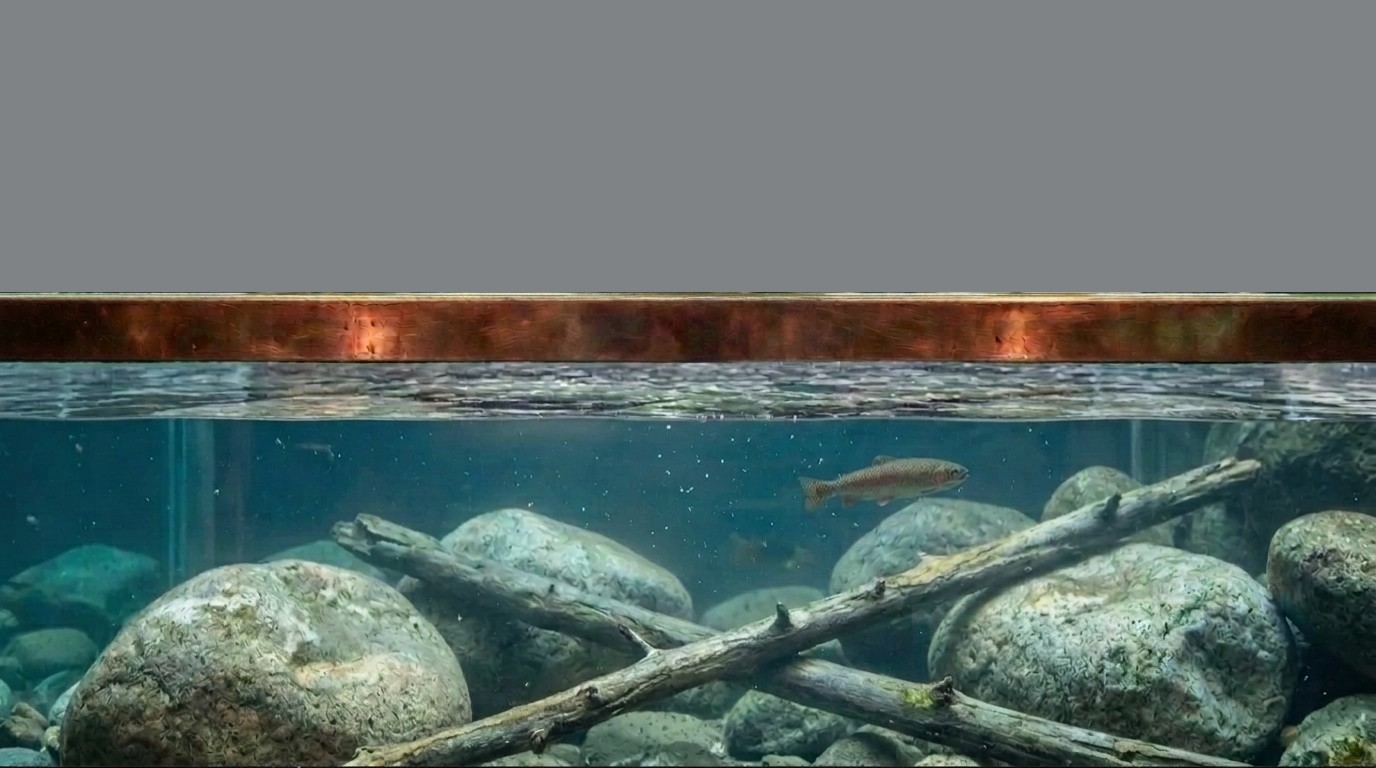
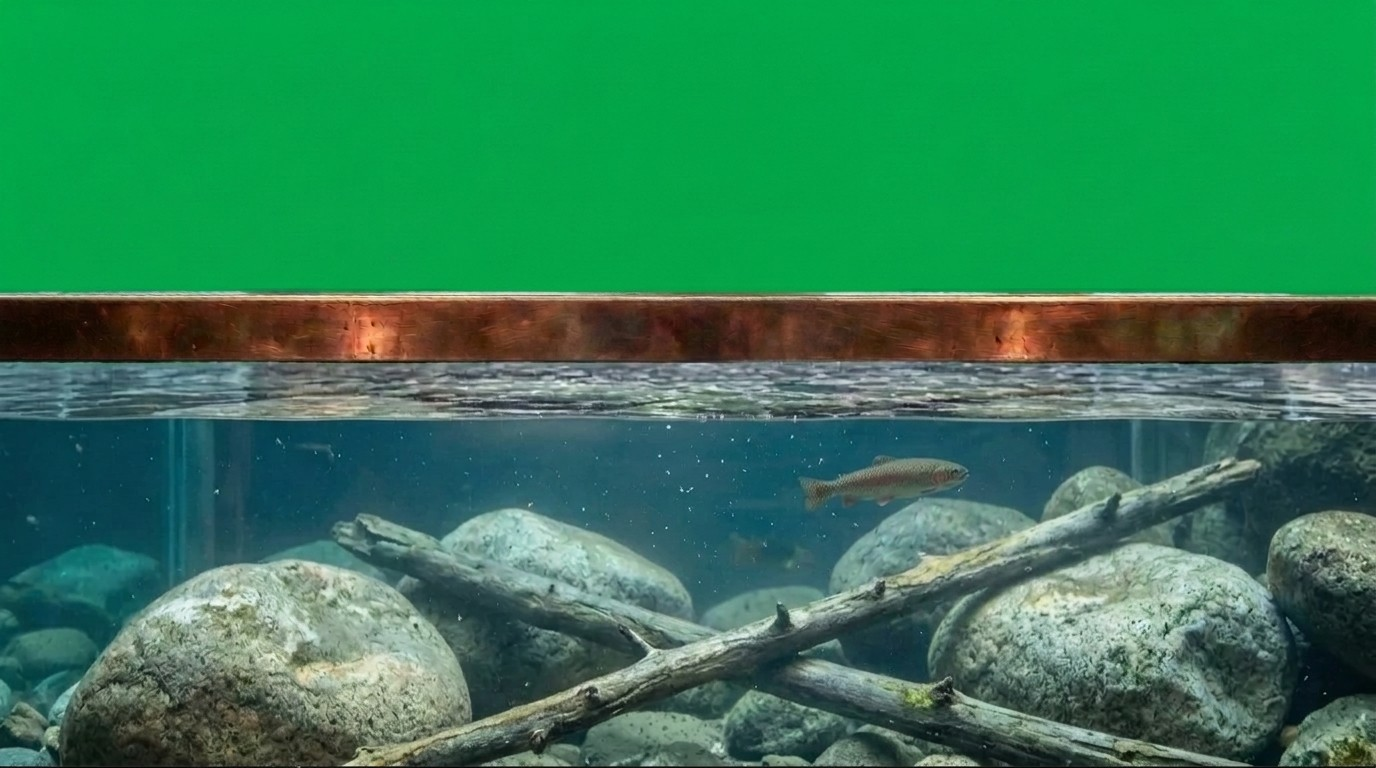
A.L.T.A.'s tank template: Christian's green one
Christian, Oct 14: his empty tank with a flat chroma green wall as the base for her new scenes. It lines up
with her frame (ledge and tank match).

- assets/alta/kit/tank-template.jpg is his; linked as ?v=3. The prompt asks to replace the flat green wall.
- Bring in a scene also turns away a render with the template's green still showing above the ledge.

Claude-Session: https://claude.ai/code/session_01A6Riaik2o3R51Wm73uZWWr

diff --git a/studio/assets/studio.js b/studio/assets/studio.js
@@ -628,8 +628,8 @@
         field('The place', '<textarea id="ntScene" rows="2" placeholder="e.g. ' + esc(TANK_SCENES['lake-tahoe']) + '"></textarea>', 'Picking a category fills in a suggestion') +
         field('How you\'ll make it', '<select id="ntWay"><option value="edit">Edit her template (keeps the framing)</option><option value="new">A new picture from the prompt</option></select>') +
         field('Image prompt', '<textarea id="ntPrompt" rows="6" readonly></textarea>') + '<div class="row"><button type="button" id="ntCopy">Copy the image prompt</button></div>' +
-        '<div class="ga-tpl"><img alt="Her tank template" src="/assets/alta/kit/tank-template.jpg?v=2"><span><b>Her tank template</b><br><span class="muted">16:9, 1376 x 768. Her empty tank: the grey is the place; the ledge and everything below it stay.</span><br>' +
-          '<button type="button" id="ntTplCopy">Copy the image</button> <a href="/assets/alta/kit/tank-template.jpg?v=2" download>Download</a> · <a href="/assets/alta/kit/tank-backdrop-guide.jpg" target="_blank" rel="noopener">Layout guide</a></span></div>' +
+        '<div class="ga-tpl"><img alt="Her tank template" src="/assets/alta/kit/tank-template.jpg?v=3"><span><b>Her tank template</b><br><span class="muted">16:9, 1376 x 768. Her empty tank: the green is the place; the ledge and everything below it stay.</span><br>' +
+          '<button type="button" id="ntTplCopy">Copy the image</button> <a href="/assets/alta/kit/tank-template.jpg?v=3" download>Download</a> · <a href="/assets/alta/kit/tank-backdrop-guide.jpg" target="_blank" rel="noopener">Layout guide</a></span></div>' +
         '<label class="drop ga-drop" id="ntDrop"><input type="file" id="ntFile" accept="image/png,image/jpeg,image/webp" hidden><b>Bring the render here</b> <span class="muted">or drop it here: you\'ll see her in front of it</span></label><div id="ntOut"></div>' +
         '<div class="row"><button type="button" class="primary" id="ntAdd" disabled>Add the scene</button></div>';
       [['data-cbc', CATBCP, bch], ['data-ctc', CATTCP, tch]].forEach(function (k) {
@@ -720,7 +720,7 @@
       $('#ntCat').onchange = function () { var c = this.value, sc = TANK_SCENES[c] || SCENES[c]; if (!ntScene.value.trim() && sc) ntScene.value = sc; if (!$('#ntName').value.trim() && c) $('#ntName').value = c + '-tank'; ntUpd(); };
       ntScene.oninput = ntUpd; $('#ntWay').onchange = ntUpd; ntUpd();
       $('#ntCopy').onclick = function () { navigator.clipboard.writeText(ntPrompt.value).then(function () { toast('Image prompt copied.'); }); };
-      $('#ntTplCopy').onclick = function () { GALook.copyImage('/assets/alta/kit/tank-template.jpg?v=2').then(function () { toast('Her tank template is on the clipboard.'); }, function (e) { toast(e.message, true); }); };
+      $('#ntTplCopy').onclick = function () { GALook.copyImage('/assets/alta/kit/tank-template.jpg?v=3').then(function () { toast('Her tank template is on the clipboard.'); }, function (e) { toast(e.message, true); }); };
       var takeTank = function (f) {
         if (!f) return; $('#ntOut').innerHTML = '<p class="muted">Working…</p>';
         tankImage(f).then(function (res) { CATNEWTANK = res; $('#ntAdd').disabled = !tankShow($('#ntOut'), res); })
@@ -876,12 +876,12 @@
             '<label class="drop" id="mlCyD"><input type="file" id="mlCy" accept="image/png,image/jpeg,image/webp" hidden><b>The cyan one</b> <span class="muted">hat and charm painted cyan</span></label></div>' +
           '<div id="mlOut"></div><div class="row"><button type="button" class="primary" id="mlSave" disabled>Add it to her looks</button></div>' +
           '</div>' +
-          // A.L.T.A.: a scene behind her tank (her template with the place grey; only the strip above her ledge shows)
+          // A.L.T.A.: a scene behind her tank (her template with the place green; only the strip above her ledge shows)
           '<div class="ct" data-ct="alta" hidden>' + prof('alta') +
             '<div class="row"><label class="f"><span>Which scene</span><select id="alWhich"><option value="">A new scene</option>' + (J.tankBackdrops || []).map(function (b) { return '<option value="' + esc(b.name) + '">' + esc(b.name.replace(/-/g, ' ')) + ' (replace hers)</option>'; }).join('') + '</select></label></div>' +
             '<div class="grid2">' + field('Name', '<input id="alName" placeholder="e.g. boathouse-night" maxlength="40">', 'Lowercase, with dashes') + field('Give it to', '<select id="alCat"><option value="">No category yet</option>' + Object.keys(cats).sort().map(function (c) { return '<option value="' + esc(c) + '">' + esc(catName(c)) + '</option>'; }).join('') + '</select>') + '</div>' +
             field('The place', '<textarea id="alScene" rows="2" placeholder="e.g. ' + esc(TANK_SCENES['lake-tahoe']) + '"></textarea>', 'Picking a category fills in a suggestion') +
-            '<div class="row"><select id="alWay"><option value="edit">Edit her template (keeps the framing)</option><option value="new">A new picture from the prompt</option></select><button type="button" id="alPr">Copy the prompt</button><button type="button" id="alTpl">Copy her tank template</button><a href="/assets/alta/kit/tank-template.jpg?v=2" download>Download it</a></div>' +
+            '<div class="row"><select id="alWay"><option value="edit">Edit her template (keeps the framing)</option><option value="new">A new picture from the prompt</option></select><button type="button" id="alPr">Copy the prompt</button><button type="button" id="alTpl">Copy her tank template</button><a href="/assets/alta/kit/tank-template.jpg?v=3" download>Download it</a></div>' +
             '<label class="drop ga-drop" id="alDrop"><input type="file" id="alFile" accept="image/png,image/jpeg,image/webp" hidden><b>Bring the render here</b> <span class="muted">or drop it here: you\'ll see her in front of it</span></label><div id="alOut"></div>' +
             '<div class="row"><button type="button" class="primary" id="alSave" disabled>Add the scene</button></div></div>';
       // what the target gives each character
@@ -1026,7 +1026,7 @@
       $('#alWhich').onchange = function () { var b2 = (J.tankBackdrops || []).filter(function (x) { return x.name === this.value; }, this)[0]; if (b2) { $('#alName').value = b2.name; alScene.value = b2.scene || ''; } else { $('#alName').value = ''; } };
       $('#alCat').onchange = function () { var c = this.value, sc = TANK_SCENES[c] || SCENES[c]; if (!alScene.value.trim() && sc) alScene.value = sc; if (!$('#alName').value.trim() && c) $('#alName').value = c + '-tank'; };
       $('#alPr').onclick = function () { navigator.clipboard.writeText(alPrompt()).then(function () { toast('Her prompt is copied.'); }); };
-      $('#alTpl').onclick = function () { GALook.copyImage('/assets/alta/kit/tank-template.jpg?v=2').then(function () { toast('Her tank template is on the clipboard.'); }, function (e) { toast(e.message, true); }); };
+      $('#alTpl').onclick = function () { GALook.copyImage('/assets/alta/kit/tank-template.jpg?v=3').then(function () { toast('Her tank template is on the clipboard.'); }, function (e) { toast(e.message, true); }); };
       var alTake = function (f) {
         if (!f) return; $('#alOut').innerHTML = '<p class="muted">Working…</p>'; $('#alSave').disabled = true;
         tankImage(f).then(function (res) { AL.rec = res; $('#alSave').disabled = !tankShow($('#alOut'), res); })
@@ -1708,17 +1708,18 @@
     var look = 'Shot like a cinematic film still from about table height, straight ahead and level, as if from behind a large aquarium standing there. Very shallow depth of field: the whole place softly out of focus, with gentle bokeh and nothing sharp. Warm, soft, late-afternoon light; calm, tidy and uncluttered. The far wall, the horizon or the treeline sits about halfway between the top of the picture and the ledge.';
     var tail = ' Empty of people and animals. No writing, signs, logos or brands anywhere. Natural colours, nothing neon, that sit well beside a teal-green tank and weathered copper.';
     if (way === 'new') return 'A softly blurred photograph, wide 16:9, of\n\n' + place + '\n\n' + look.replace(' The far wall, the horizon or the treeline sits about halfway between the top of the picture and the ledge.', ' The far wall, the horizon or the treeline sits about a quarter of the way down the frame; everything that matters is in the top third, and the lower part is plain floor or ground. Keep the middle of that top third calm and evenly lit, with no bright lights or strong shapes (her head goes there).') + tail;
-    return 'Same image, exactly as it is: the empty tank, its copper ledge, the water and everything below the ledge stay exactly the same. Replace only the flat grey wall above the copper ledge with a softly blurred photograph of\n\n' + place + '\n\n' + look +
+    return 'Same image, exactly as it is: the empty tank, its copper ledge, the water and everything below the ledge stay exactly the same. Replace only the flat green wall above the copper ledge with a softly blurred photograph of\n\n' + place + '\n\n' + look +
       ' Composition, in pixels on this 1376 x 768 image: everything that matters sits above the ledge, from y 0 to y 290. Keep the middle, from x 560 to x 820 and y 40 to y 290, calm, evenly lit and slightly darker, with no bright lights or strong shapes (her head goes there). Nothing added in the tank, on the ledge or in front of it.' + tail;
   }
   // a tank scene's preview: her resting in front of it, and the same scene as she dives (her head and shoulders gone, so
   // only the scene shows above the ledge). A scene with her painted in is refused: her head would stay behind when she
-  // dives (Christian, Oct 14). Returns whether it can be added.
+  // dives (Christian, Oct 14); so is one with her template's green still showing. Returns whether it can be added.
   function tankShow(o, res) {
     o.innerHTML = (res.her ? '<p class="warn">She\'s painted into this picture: when she dives, that copy of her head would stay behind. Make it from her empty tank template (Copy her tank template), or a new picture.</p>' : '') +
+      (res.green ? '<p class="warn">Some of her template\'s green is still showing above the ledge: run it again until the whole wall is the place.</p>' : '') +
       (res.warn ? '<p class="warn">' + esc(res.warn) + '</p>' : '') + '<p class="muted">Resting, and as she dives:</p>';
     res.preview.className = 'ga-prev'; o.appendChild(res.preview); res.dive.className = 'ga-prev'; o.appendChild(res.dive);
-    return !res.her;
+    return !res.her && !res.green;
   }
   // a render cropped to her frame (1376 x 768) as webp, and a preview with her and her tank in front of it
   function tankImage(file) {
@@ -1740,10 +1741,14 @@
       var od = og.getImageData(0, 0, W, 250).data, sd = g.getImageData(0, 0, W, 250).data, sum = 0, n = 0;
       for (var q = 0; q < od.length; q += 4) if (od[q + 3] > 128) { sum += Math.abs(od[q] - sd[q]) + Math.abs(od[q + 1] - sd[q + 1]) + Math.abs(od[q + 2] - sd[q + 2]); n++; }
       var her = n > 0 && sum / n / 3 < 30;
+      // is her template's green still showing above the ledge (the tool left some of the wall)?
+      var gd = g.getImageData(0, 0, W, 285).data, gn = 0;
+      for (var z = 0; z < gd.length; z += 16) if (gd[z + 1] > 120 && gd[z + 1] - gd[z] > 80 && gd[z + 1] - gd[z + 2] > 40) gn++;
+      var green = gn / (gd.length / 16) > 0.03;
       return new Promise(function (ok) { c.toBlob(ok, 'image/webp', 0.85); }).then(function (b) {
         if (b && b.type === 'image/webp') return b;
         return new Promise(function (ok) { c.toBlob(ok, 'image/jpeg', 0.86); });
-      }).then(function (blob) { return { blob: blob, ext: blob.type === 'image/webp' ? 'webp' : 'jpg', preview: pv, dive: dv, her: her, warn: warn, colors: imageColors(c, 0.38) }; });
+      }).then(function (blob) { return { blob: blob, ext: blob.type === 'image/webp' ? 'webp' : 'jpg', preview: pv, dive: dv, her: her, green: green, warn: warn, colors: imageColors(c, 0.38) }; });
     });
   }
   var SCENES = { 'case-study': 'an old library with tall wooden bookshelves, brass reading lamps and a long study table',

diff --git a/studio/index.php b/studio/index.php
@@ -164,7 +164,7 @@ $alt = 'The Studio by ' . $tod . ': a brass STUDIO panel with its day/night dial
 <script src="assets/look.js?v=<?= STUDIO_VERSION ?>-7"></script>
 <script src="assets/marleycut.js?v=<?= STUDIO_VERSION ?>-2"></script>
 <script src="../js/motion.js?v=1"></script>
-<script src="assets/studio.js?v=<?= STUDIO_VERSION ?>-84"></script>
+<script src="assets/studio.js?v=<?= STUDIO_VERSION ?>-85"></script>
 <?php endif; ?>
 <script src="../js/audio-rules.js?v=1"></script>
 <script src="table/table.js?v=25"></script>

diff --git a/assets/alta/KIT.md b/assets/alta/KIT.md
@@ -546,7 +546,7 @@ behind where her head is (the middle of the band).
 ### Her template, the Studio and borrowing (Oct 13)
 
 **Her template** (`assets/alta/kit/tank-template.jpg`, 1376 x 768): her tank, **empty**, exactly as the site frames
-it, with the place a flat grey above the copper ledge. The easiest way to a scene that fits is to **edit the template**:
+it, with the place a flat chroma green above the copper ledge (Christian's, Oct 14). The easiest way to a scene that fits is to **edit the template**:
 the framing stays right, and only the strip above the ledge is used.
 
 **Never paint her into a scene** (Oct 14). Her head and shoulders above the ledge are drawn over the scene only while she
@@ -558,7 +558,7 @@ away a picture with her in it.
 The edit prompt (Christian's layout: the scene on a line of its own, so it's the one part to change):
 
 > Same image, exactly as it is: the empty tank, its copper ledge, the water and everything below the ledge stay exactly
-> the same. Replace only the flat grey wall above the copper ledge with a softly blurred photograph of
+> the same. Replace only the flat green wall above the copper ledge with a softly blurred photograph of
 >
 > [ INSERT SCENE ]
 >
